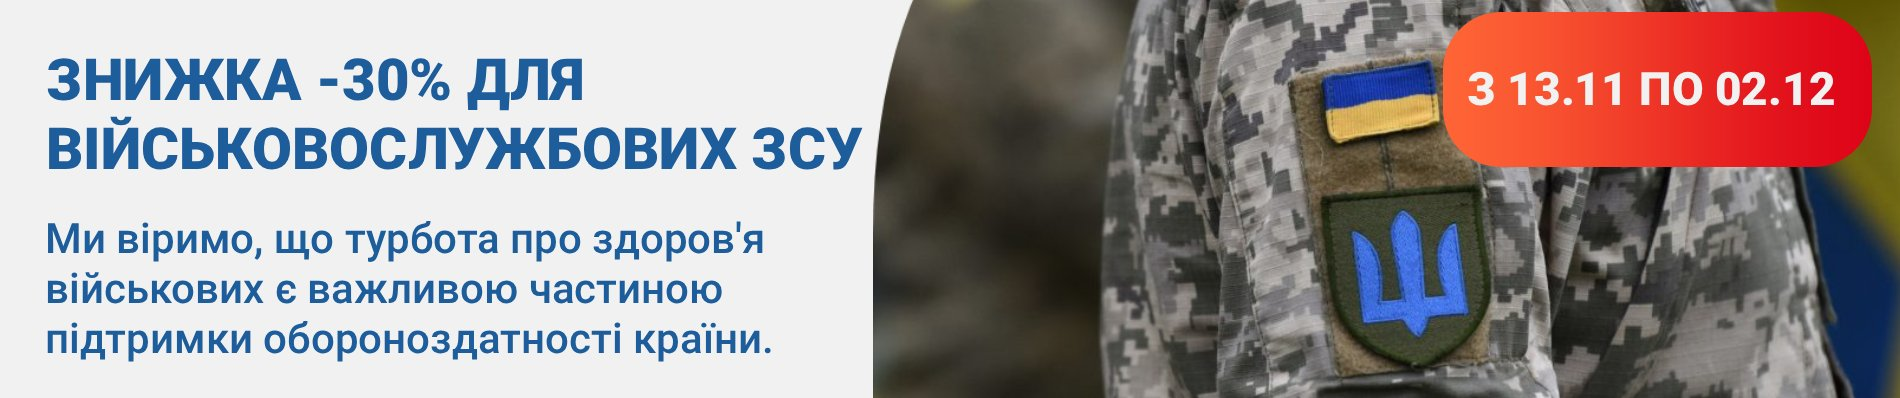
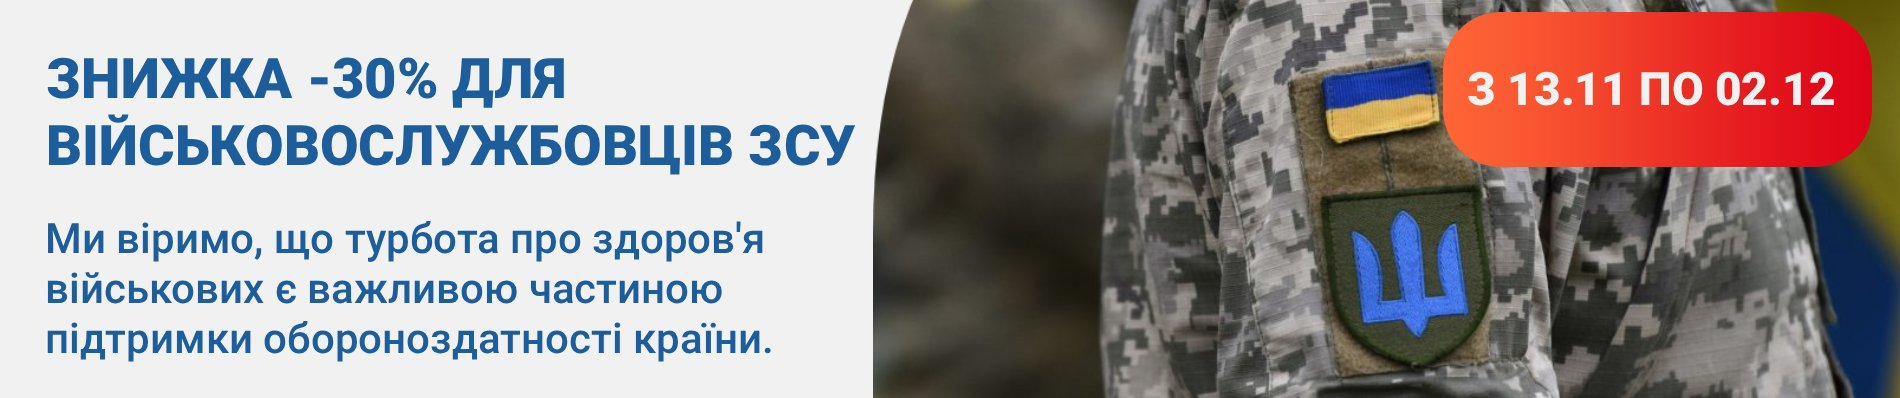
fix of picture text fail

Changed region(s): [[0.0311, 0.3015, 0.4658, 0.4523], [0.0311, 0.1206, 0.3105, 0.2714]]

diff --git a/public/uk/lviv/index.html b/public/uk/lviv/index.html
@@ -434,7 +434,7 @@ https://cdn.jsdelivr.net/npm/@splidejs/splide@4.1.4/dist/css/splide.min.css
     <span class="star" data-value="4">&#9733;</span>
     <span class="star" data-value="5">&#9733;</span>
 </div>
-<div id="rating-value">Ваша оцінка: <b><span id="rating"></span></b> <br><span><span>4.8/5</span> (<span id="rating-votes">4522</span> проголосовали)</span></div>
+<div id="rating-value">Ваша оцінка: <b><span id="rating"></span></b> <br><span><span>4.98/5</span> (<span id="rating-votes">4522</span> проголосовали)</span></div>
 <div id="rating-thanks">Дякуємо за відгук. Кожна оцінка важлива для нас<span id="rating"></span></div> 
     
     <div class="reviews">

diff --git a/public/uk/index.html b/public/uk/index.html
@@ -326,7 +326,7 @@ https://cdn.jsdelivr.net/npm/@splidejs/splide@4.1.4/dist/css/splide.min.css
               
               <li class="homepage-block splide__slide">
                 <div class="homepage-image">
-                  <a href="https://umbrella-plus.com.ua/ua/cherkasy/">
+                  <a href="https://umbrella-plus.com.ua/uk/cherkasy/">
                     <picture>
                       <source
                         media="(max-width: 720px)"
